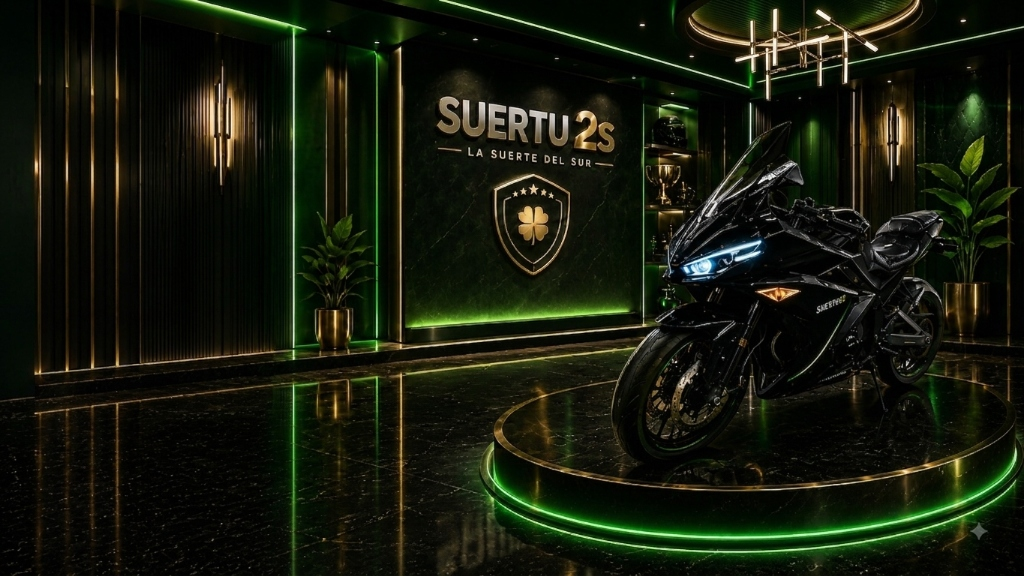
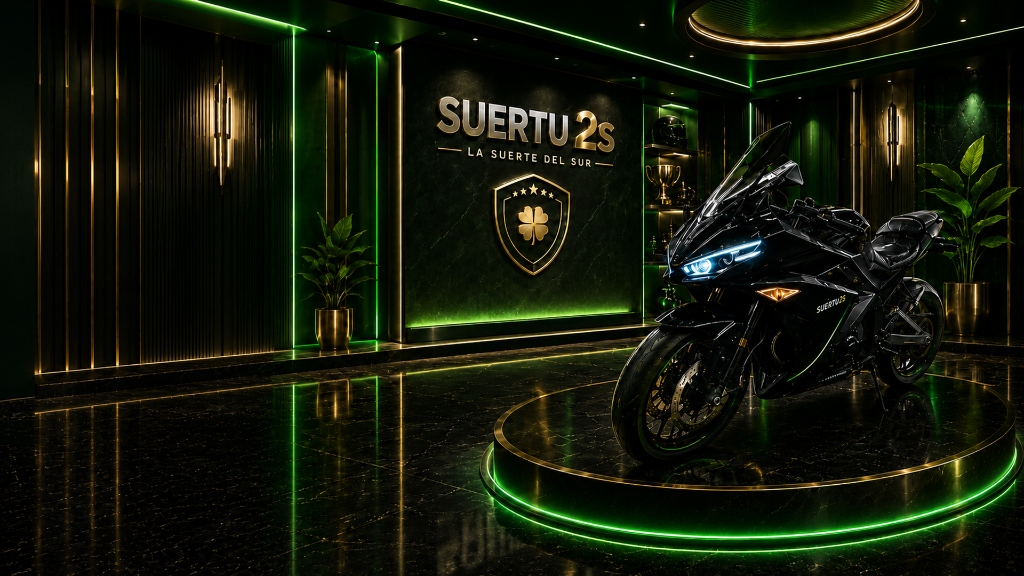
fix: eliminate warm sepia tint and restore vivid emerald green and cool blue-white tones

diff --git a/v2/src/components/home/Hero.tsx b/v2/src/components/home/Hero.tsx
@@ -142,11 +142,11 @@ export function Hero() {
           fill
           priority
           unoptimized
-          className="object-cover object-center transform-gpu"
+          className="object-cover object-center filter saturate-[1.10] contrast-[1.05] transform-gpu"
         />
-        {/* Soft gradient overlay behind left text only */}
-        <div className="absolute inset-y-0 left-0 w-full md:w-[45%] bg-gradient-to-r from-[#030a05]/90 via-[#030a05]/40 to-transparent pointer-events-none" />
-        <div className="absolute inset-x-0 bottom-0 h-12 bg-gradient-to-t from-[#030a05] to-transparent pointer-events-none" />
+        {/* Soft, minimal gradient overlay behind left text only */}
+        <div className="absolute inset-y-0 left-0 w-full md:w-[42%] bg-gradient-to-r from-[#030a05]/85 via-[#030a05]/30 to-transparent pointer-events-none" />
+        <div className="absolute inset-x-0 bottom-0 h-10 bg-gradient-to-t from-[#030a05] to-transparent pointer-events-none" />
 
         <section
           id="inicio"
